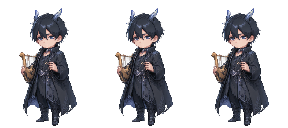
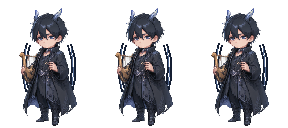
Preserve bard hair silhouette in pixel sprite

diff --git a/game.js b/game.js
@@ -320,7 +320,7 @@ function loadAssets() {
  setSpriteFrame(player, HERO_IDLE_FRAME, 0, 3, 4); shadowGenerator.addShadowCaster(player);
  player.contact = contactShadow(0, 0.8, 1.5, 1.1);
  npcs.forEach((n, i) => {
-  n.sprite = createBillboard(`npc-${i}`, `assets/npcs/npc-idle-${i}.png?v=route-3`, n.x, n.z, 1.93, 2.67);
+  n.sprite = createBillboard(`npc-${i}`, `assets/npcs/npc-idle-${i}.png?v=route-4`, n.x, n.z, 1.93, 2.67);
   setSpriteFrame(n.sprite, NPC_REST[i], 0, 3, 1); shadowGenerator.addShadowCaster(n.sprite);
   n.phase = i * 0.9;            // desync each NPC's sway so they don't breathe in lockstep
   n.baseCenterY = n.sprite.position.y;   // feet-anchor reference for the breathing scale

diff --git a/index.html b/index.html
@@ -34,5 +34,5 @@
       </div>
       <div class="story-box"><b id="story-name"></b><p id="story-text"></p><span>點一下繼續　▼</span></div>
     </section>
-  </main><script src="vendor/babylon.js"></script><script src="game.js?v=3d-42"></script>
+  </main><script src="vendor/babylon.js"></script><script src="game.js?v=3d-43"></script>
 </body></html>